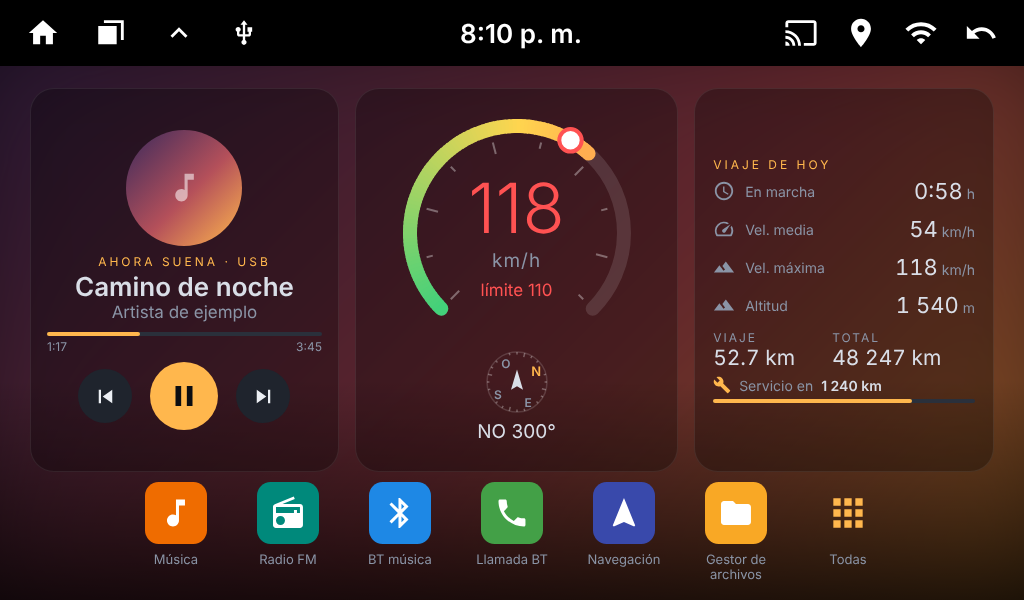
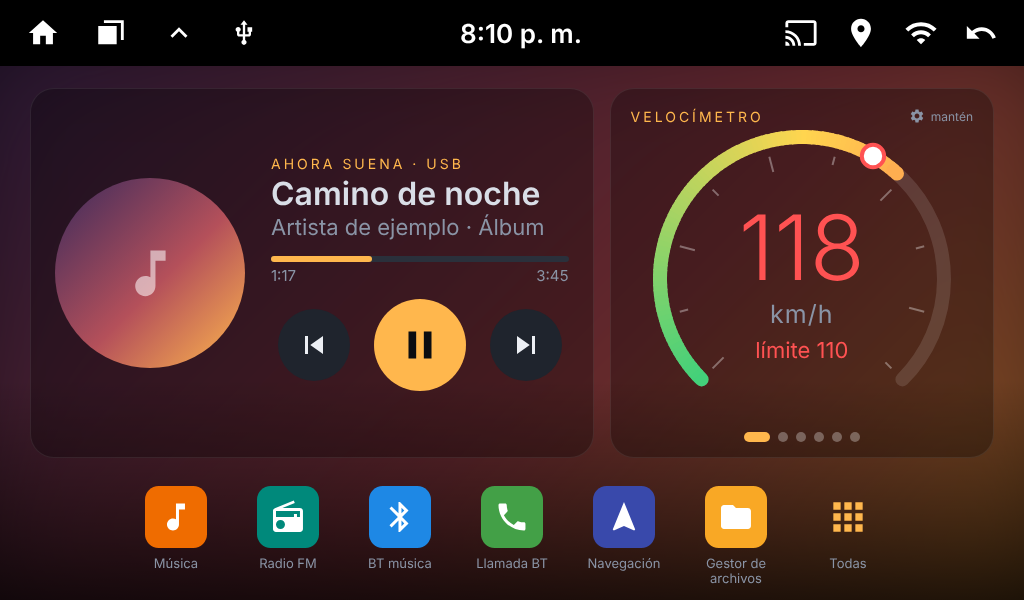
Imágenes y generador de vista previa para el widget deslizable (3.8.0, sin publicar)
Claude-Session: https://claude.ai/code/session_011vyBQ6bBFkKsMFyk998ioB

diff --git a/docs/preview/instrumentos.py b/docs/preview/instrumentos.py
@@ -1,7 +1,7 @@
 #!/usr/bin/env python3
-"""Inicio 3.7 (diseño A, tres tarjetas): música, velocímetro con brújula y viaje; dock sin círculos.
+"""Inicio 3.8 (7"): música 60 % y widget deslizable de 6 páginas; dock sin círculos.
 
-Genera docs/screenshots/01, 02 y 05 (render del diseño, no capturas del equipo).
+Genera docs/screenshots/01, 02, 05 y 06 (render del diseño, no capturas del equipo).
     pip install playwright pillow && python3 docs/preview/instrumentos.py
 """
 import math, pathlib, sys
@@ -99,22 +99,6 @@ def dock_all():
             f'<div style="font-size:13px;color:{DIM};text-align:center;line-height:1.15;height:30px;overflow:hidden">Todas</div></div>')
 
 
-def svg(path, s=22, col=DIM):
-    return f'<svg width="{s}" height="{s}" viewBox="0 0 24 24" fill="{col}"><path d="{path}"/></svg>'
-
-
-CLOCK = "M11.99,2C6.47,2 2,6.48 2,12s4.47,10 9.99,10C17.52,22 22,17.52 22,12S17.52,2 11.99,2zM12,20c-4.42,0 -8,-3.58 -8,-8s3.58,-8 8,-8 8,3.58 8,8 -3.58,8 -8,8zm0.5,-13H11v6l5.25,3.15 0.75,-1.23 -4.5,-2.67z"
-AVG = "M20.38,8.57l-1.23,1.85a8,8 0 0,1 -0.22,7.58H5.07A8,8 0 0,1 15.58,6.85l1.85,-1.23A10,10 0 0,0 3.35,19a2,2 0 0,0 1.72,1h13.85a2,2 0 0,0 1.74,-1 10,10 0 0,0 -0.27,-10.44zm-9.79,6.84a2,2 0 0,0 2.83,0l5.66,-8.49 -8.49,5.66a2,2 0 0,0 0,2.83z"
-PEAK = "M14,6l-3.75,5 2.85,3.8 -1.6,1.2C9.81,13.75 7,10 7,10l-6,8h22L14,6z"
-WRENCH = "M22.7,19l-9.1,-9.1c0.9,-2.3 0.4,-5 -1.5,-6.9 -2,-2 -5,-2.4 -7.4,-1.3L9,6 6,9 1.6,4.7C0.4,7.1 0.9,10.1 2.9,12.1c1.9,1.9 4.6,2.4 6.9,1.5l9.1,9.1c0.4,0.4 1,0.4 1.4,0l2.3,-2.3c0.5,-0.4 0.5,-1.1 0.1,-1.4z"
-
-
-def stat(icon, label, val, unit=""):
-    return (f'<div style="display:flex;align-items:center;gap:10px;padding:6px 0">{svg(icon, 22)}'
-            f'<div style="flex:1;font-size:14px;color:{DIM}">{label}</div>'
-            f'<div style="font-size:22px;color:{INK};font-variant-numeric:tabular-nums">{val}<span style="font-size:14px;color:{DIM};margin-left:4px">{unit}</span></div></div>')
-
-
 def dock_app(i):
     return (f'<div style="display:flex;flex-direction:column;align-items:center;gap:8px;width:104px">{aicon(i, 62)}'
             f'<div style="font-size:13px;color:{DIM};text-align:center;line-height:1.15;height:30px;overflow:hidden">{APPS[i][0]}</div></div>')
@@ -125,51 +109,70 @@ def dock_all():
             f'<div style="font-size:13px;color:{DIM};text-align:center;line-height:1.15;height:30px;overflow:hidden">Todas</div></div>')
 
 
-def home(speed, heading, limit, trip, total, status=None, playing=True, stats=("0:42", "54", "118", "1 540"), service=("Servicio en <b style=\"color:%s;font-weight:600\">1 240 km</b>" % INK, 76)):
-    bg = (f'<div style="position:absolute;inset:-80px;background:{ART};filter:blur(70px) saturate(1.2) brightness(.5)"></div>' if playing else "")
-    bg += '<div style="position:absolute;left:0;right:0;bottom:0;height:220px;background:linear-gradient(transparent,rgba(0,0,0,.7))"></div>'
-    if playing:
-        src, title, artist, cov = "AHORA SUENA · USB", "Camino de noche", "Artista de ejemplo", cover(116, 58)
-        bar = f'<div style="width:100%;margin-top:10px">{prog(34, 4)}</div><div style="width:100%;margin-top:3px;display:flex;justify-content:space-between;font-size:12px;color:{DIM}"><span>1:17</span><span>3:45</span></div>'
-        main_ico = "pause"
-    else:
-        src, title, artist = "MÚSICA", "Sin reproducción", "Toca para abrir la música"
-        cov = f'<div style="width:116px;height:116px;border-radius:58px;background:#1F242D;display:flex;align-items:center;justify-content:center">{ico("note", 48, DIM)}</div>'
-        bar = '<div style="width:100%;margin-top:10px;height:4px"></div><div style="margin-top:3px;height:15px"></div>'
-        main_ico = "play"
-    music = (f'<div style="{GLASS};flex:1.05;min-width:0;padding:10px 16px;box-sizing:border-box;display:flex;flex-direction:column;align-items:center;justify-content:center;text-align:center">{cov}'
-             f'<div style="margin-top:8px;font-size:12px;letter-spacing:3px;color:{ACC}">{src}</div>'
-             f'<div style="margin-top:2px;max-width:100%;font-size:26px;font-weight:600;color:{INK};white-space:nowrap;overflow:hidden;text-overflow:ellipsis">{title}</div>'
-             f'<div style="font-size:17px;color:{DIM}">{artist}</div>{bar}'
-             f'<div style="margin-top:8px;display:flex;align-items:center;gap:18px">{btn("prev", 54)}{btn(main_ico, 68, True)}{btn("next", 54)}</div></div>')
-    st = f'<div style="text-align:center;font-size:13px;color:{ACC}">{status}</div>' if status else ""
-    gauge = (f'<div style="{GLASS};flex:1.15;min-width:0;margin-left:16px;padding:10px;box-sizing:border-box;display:flex;flex-direction:column;align-items:center;justify-content:center">'
-             f'{speed_gauge(speed, limit, 230)}{st}<div style="margin-top:2px">{compass(heading, 64)}</div></div>')
-    t, avg, mx, alt = stats
-    sv, pct = service
-    tripc = (f'<div style="{GLASS};flex:1;min-width:0;margin-left:16px;padding:10px 18px;box-sizing:border-box;display:flex;flex-direction:column;justify-content:center">'
-             f'<div style="font-size:12px;letter-spacing:3px;color:{ACC}">VIAJE DE HOY</div>'
-             f'{stat(CLOCK, "En marcha", t, "h")}{stat(AVG, "Vel. media", avg, "km/h")}{stat(PEAK, "Vel. máxima", mx, "km/h")}{stat(PEAK, "Altitud", alt, "m")}'
-             f'<div style="margin-top:6px;display:flex">{odo("VIAJE", trip + " km")}{odo("TOTAL", total + " km", 1.2)}</div>'
-             f'<div style="margin-top:6px;display:flex;align-items:center;gap:8px;font-size:14px;color:{DIM}">{svg(WRENCH, 18, ACC)}{sv}</div>'
-             f'<div style="margin-top:5px">{prog(pct, 4)}</div></div>')
-    dock = "".join(dock_app(i) for i in range(6)) + dock_all()
-    return frame(f"""{bg}<div style="position:absolute;inset:0;padding:16px 30px 14px;display:flex;flex-direction:column">
-  <div style="flex:1;display:flex;align-items:stretch;padding:6px 0 10px">{music}{gauge}{tripc}</div>
-  <div style="display:flex;justify-content:center;gap:8px;padding-bottom:4px">{dock}</div>
-</div>""", "#000")
-
+PARAM = {}
+def svg(path, s=22, col=DIM): return f'<svg width="{s}" height="{s}" viewBox="0 0 24 24" fill="{col}"><path d="{path}"/></svg>'
+WRENCH="M22.7,19l-9.1,-9.1c0.9,-2.3 0.4,-5 -1.5,-6.9 -2,-2 -5,-2.4 -7.4,-1.3L9,6 6,9 1.6,4.7C0.4,7.1 0.9,10.1 2.9,12.1c1.9,1.9 4.6,2.4 6.9,1.5l9.1,9.1c0.4,0.4 1,0.4 1.4,0l2.3,-2.3c0.5,-0.4 0.5,-1.1 0.1,-1.4z"
+FUEL="M19.77,7.23l0.01,-0.01 -3.72,-3.72L15,4.56l2.11,2.11C16.17,7.03 15.5,7.93 15.5,9c0,1.38 1.12,2.5 2.5,2.5 0.36,0 0.69,-0.08 1,-0.21v7.21c0,0.55 -0.45,1 -1,1s-1,-0.45 -1,-1V14c0,-1.1 -0.9,-2 -2,-2h-1V5c0,-1.1 -0.9,-2 -2,-2H6c-1.1,0 -2,0.9 -2,2v16h10v-7.5h1.5v5c0,1.38 1.12,2.5 2.5,2.5s2.5,-1.12 2.5,-2.5V9c0,-0.69 -0.28,-1.32 -0.73,-1.77zM12,10H6V5h6v5zM18,10c-0.55,0 -1,-0.45 -1,-1s0.45,-1 1,-1 1,0.45 1,1 -0.45,1 -1,1z"
+GEAR="M19.14,12.94c0.04,-0.3 0.06,-0.61 0.06,-0.94 0,-0.32 -0.02,-0.64 -0.07,-0.94l2.03,-1.58c0.18,-0.14 0.23,-0.41 0.12,-0.61l-1.92,-3.32c-0.12,-0.22 -0.37,-0.29 -0.59,-0.22l-2.39,0.96c-0.5,-0.38 -1.03,-0.7 -1.62,-0.94l-0.36,-2.54c-0.04,-0.24 -0.24,-0.41 -0.48,-0.41h-3.84c-0.24,0 -0.43,0.17 -0.47,0.41l-0.36,2.54c-0.59,0.24 -1.13,0.57 -1.62,0.94l-2.39,-0.96c-0.22,-0.08 -0.47,0 -0.59,0.22L2.74,8.87c-0.12,0.21 -0.08,0.47 0.12,0.61l2.03,1.58c-0.05,0.3 -0.09,0.63 -0.09,0.94s0.02,0.64 0.07,0.94l-2.03,1.58c-0.18,0.14 -0.23,0.41 -0.12,0.61l1.92,3.32c0.12,0.22 0.37,0.29 0.59,0.22l2.39,-0.96c0.5,0.38 1.03,0.7 1.62,0.94l0.36,2.54c0.05,0.24 0.24,0.41 0.48,0.41h3.84c0.24,0 0.44,-0.17 0.47,-0.41l0.36,-2.54c0.59,-0.24 1.13,-0.56 1.62,-0.94l2.39,0.96c0.22,0.08 0.47,0 0.59,-0.22l1.92,-3.32c0.12,-0.22 0.07,-0.47 -0.12,-0.61l-2.01,-1.58zM12,15.6c-1.98,0 -3.6,-1.62 -3.6,-3.6s1.62,-3.6 3.6,-3.6 3.6,1.62 3.6,3.6 -1.62,3.6 -3.6,3.6z"
+NAMES=["Velocímetro","Odómetro","Consumo","Servicio","Viaje de hoy","Brújula"]
+def bg():
+    return (f'<div style="position:absolute;inset:-80px;background:{ART};filter:blur(70px) saturate(1.2) brightness(.5)"></div>'
+            '<div style="position:absolute;left:0;right:0;bottom:0;height:220px;background:linear-gradient(transparent,rgba(0,0,0,.7))"></div>')
+def music(w=None):
+    return (f'<div style="{GLASS};flex:6;min-width:0;padding:16px 24px;box-sizing:border-box;display:flex;align-items:center;gap:26px">'
+            f'<div style="display:flex;flex-direction:column;align-items:center">{cover(190,95)}</div>'
+            f'<div style="flex:1;min-width:0"><div style="font-size:14px;letter-spacing:3px;color:{ACC}">AHORA SUENA · USB</div>'
+            f'<div style="margin-top:4px;font-size:32px;font-weight:600;color:{INK};line-height:1.1;white-space:nowrap;overflow:hidden;text-overflow:ellipsis">Camino de noche</div>'
+            f'<div style="font-size:22px;color:{DIM};margin-top:2px;white-space:nowrap;overflow:hidden;text-overflow:ellipsis">Artista de ejemplo · Álbum</div>'
+            f'<div style="margin-top:16px">{prog(34,6)}</div><div style="display:flex;justify-content:space-between;font-size:15px;color:{DIM};margin-top:4px"><span>1:17</span><span>3:45</span></div>'
+            f'<div style="margin-top:14px;display:flex;align-items:center;justify-content:center;gap:24px">{btn("prev",72)}{btn("pause",92,True)}{btn("next",72)}</div></div></div>')
+def big(label, val, unit="", col=INK, size=64):
+    return (f'<div style="text-align:center"><div style="font-size:15px;letter-spacing:3px;color:{DIM}">{label}</div>'
+            f'<div style="font-size:{size}px;line-height:1.05;color:{col};font-variant-numeric:tabular-nums">{val}<span style="font-size:{int(size*.38)}px;color:{DIM};margin-left:6px">{unit}</span></div></div>')
+def row(label, val, unit=""):
+    return (f'<div style="display:flex;align-items:baseline;justify-content:space-between;padding:11px 0;border-bottom:1px solid rgba(255,255,255,.07)">'
+            f'<span style="font-size:19px;color:{DIM}">{label}</span><span style="font-size:34px;color:{INK};font-variant-numeric:tabular-nums">{val}<span style="font-size:17px;color:{DIM};margin-left:5px">{unit}</span></span></div>')
+def page(i):
+    if i==0: return speed_gauge(PARAM["speed"],110,300) + (f'<div style="font-size:14px;color:{ACC};text-align:center">{PARAM["status"]}</div>' if PARAM["status"] else "")
+    if i==1: return (f'<div style="display:flex;flex-direction:column;gap:26px;width:100%">{big("VIAJE","18.4","km",INK,78)}{big("TOTAL","48 213","km",INK,78)}'
+                     f'<div style="text-align:center;font-size:15px;color:{DIM}">Mantén presionado: reiniciar o ajustar</div></div>')
+    if i==2: return (f'<div style="width:100%;display:flex;flex-direction:column;align-items:center;gap:8px">{big("PROMEDIO","11.8","km/L",INK,70)}'
+                     f'<div style="width:100%">{row("Última carga","32.5","L")}{row("Costo por km","$1.74")}{row("Autonomía","412","km")}</div></div>')
+    if i==3: return (f'<div style="width:100%;display:flex;flex-direction:column;align-items:center;gap:16px">{svg(WRENCH,44,ACC)}{big("SERVICIO EN","1 240","km",INK,84)}'
+                     f'<div style="width:100%">{prog(88,10)}</div><div style="font-size:17px;color:{DIM}">Cada 10 000 km · último a los 38 973 km</div>'
+                     f'<div style="padding:12px 26px;border-radius:30px;background:rgba(255,179,71,.16);border:1px solid {ACC};color:{ACC};font-size:19px">Servicio hecho hoy</div></div>')
+    if i==4: return (f'<div style="width:100%">{row("En marcha","0:42","h")}{row("Vel. media","54","km/h")}{row("Vel. máxima","118","km/h")}{row("Altitud","1 540","m")}{row("Distancia","18.4","km")}</div>')
+    return (f'<div style="display:flex;flex-direction:column;align-items:center;gap:6px">{compass(PARAM["heading"],250)}</div>')
+def widget(i, extra=""):
+    dots="".join(f'<div style="width:{26 if k==i else 10}px;height:10px;border-radius:5px;background:{ACC if k==i else "rgba(255,255,255,.3)"}"></div>' for k in range(6))
+    return (f'<div style="{GLASS};flex:4;min-width:0;margin-left:16px;padding:14px 20px 12px;box-sizing:border-box;display:flex;flex-direction:column;position:relative">'
+            f'<div style="display:flex;justify-content:space-between;align-items:center;height:26px"><span style="font-size:14px;letter-spacing:3px;color:{ACC};text-transform:uppercase">{NAMES[i]}</span>'
+            f'<span style="display:flex;align-items:center;gap:6px;font-size:12px;color:{DIM}">{svg(GEAR,16,DIM)}mantén</span></div>'
+            f'<div style="flex:1;display:flex;align-items:center;justify-content:center;min-height:0">{page(i)}</div>'
+            f'<div style="display:flex;justify-content:center;align-items:center;gap:8px;height:16px">{dots}</div>{extra}</div>')
+def home_page(i, extra="", speed=72, heading=45, playing=True, status=None):
+    PARAM.update(speed=speed, heading=heading, status=status)
+    dock="".join(dock_app(k) for k in range(6))+dock_all()
+    return frame(f'{bg()}<div style="position:absolute;inset:0;padding:16px 30px 14px;display:flex;flex-direction:column">'
+                 f'<div style="flex:1;display:flex;align-items:stretch;padding:6px 0 28px">{music()}{widget(i, extra)}</div>'
+                 f'<div style="display:flex;justify-content:center;gap:8px;padding-bottom:4px">{dock}</div></div>',"#000")
+def sheet():
+    cells="".join(f'<div style="width:360px;height:388px;position:relative;display:flex">{widget(i).replace("flex:4","flex:1").replace("margin-left:16px","margin-left:0")}</div>' for i in range(6))
+    return (f'<body style="margin:0;background:#0B0D12;width:1160px;font-family:Roboto,sans-serif"><div style="padding:22px;display:grid;grid-template-columns:repeat(3,360px);gap:18px">{cells}</div></body>')
 
 if __name__ == "__main__":
     SHOTS.mkdir(parents=True, exist_ok=True)
-    jobs = [(SHOTS / "01-inicio-reproduciendo.png", lambda: home(72, 45, 110, "18.4", "48 213")),
-            (SHOTS / "02-inicio-reposo.png", lambda: home(None, None, 110, "0.0", "48 213", "Toca para activar velocímetro y odómetro", playing=False, stats=("0:00", "--", "0", "--"))),
-            (SHOTS / "05-limite-de-velocidad.png", lambda: home(118, 300, 110, "52.7", "48 247", stats=("0:58", "54", "118", "1 540")))]
+    jobs = [(SHOTS / "01-inicio-reproduciendo.png", lambda: home_page(0, speed=72)),
+            (SHOTS / "02-inicio-reposo.png", lambda: home_page(0, speed=None, status="Toca para activar velocímetro y odómetro")),
+            (SHOTS / "05-limite-de-velocidad.png", lambda: home_page(0, speed=118))]
     with sync_playwright() as p:
         b = p.chromium.launch()
         pg = b.new_page(viewport={"width": 1024, "height": 600}, device_scale_factor=1)
         for path, fn in jobs:
             pg.set_content(fn()); pg.wait_for_timeout(150)
             pg.screenshot(path=str(path))
+        pg2 = b.new_page(viewport={"width": 1160, "height": 900}, device_scale_factor=1)
+        pg2.set_content(sheet()); pg2.wait_for_timeout(150)
+        pg2.screenshot(path=str(SHOTS / "06-widgets-deslizables.png"), full_page=True)
         b.close()
     print("OK")
